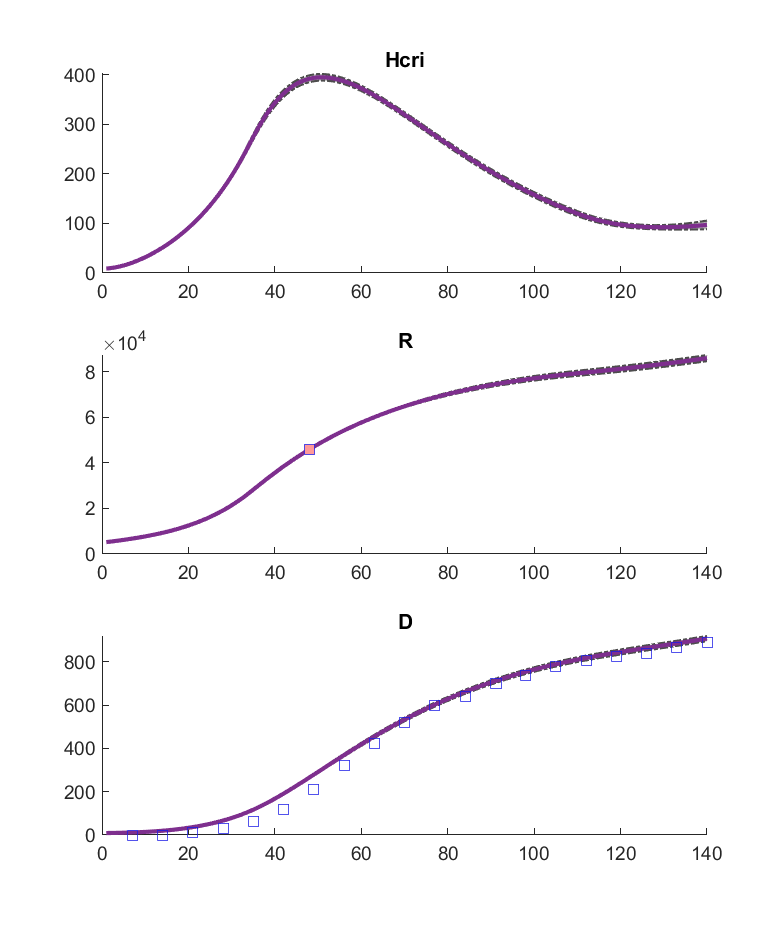
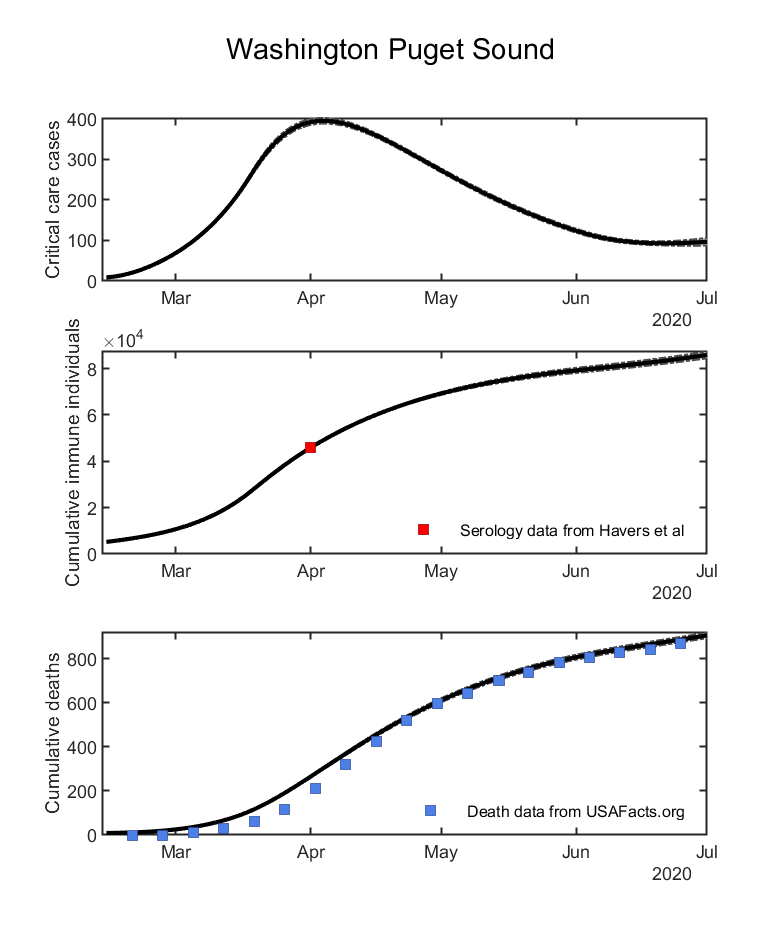
new figures

diff --git a/CYZ_reorg/Matlab/plot_MCMC_res_temp_simplified.m b/CYZ_reorg/Matlab/plot_MCMC_res_temp_simplified.m
@@ -1,20 +1,27 @@
-function out = plot_MCMC_res_temp_simplified(NSamples, Chains, Comps, Pars, Ress)
+function out = plot_MCMC_res_temp_simplified(NSamples, Chains, Comps, Pars, Ress, REGION)
 %% Predictions from MCMC
+
+if REGION == 'nyc'
+    region_name = 'New York City';
+elseif REGION == 'sflor'
+    region_name = 'South Florida';
+elseif REGION == 'wash'
+    region_name = 'Washington Puget Sound';
+end
 
 % For all Chains
 out = figure('Name', 'Res', 'Position', [5 5 500 600]); clf    
-COUNTER = 1;
 k = 2;
 Chain = Chains{k};
 Res = Ress{k};
 
-% Take second half of chain
+% Take second half of chain XXX thisis sus,
 burnIn = floor(length(Chain)/2);
 burnOut = burnIn:length(Chain);
 
 chain_out = Chain(burnOut,:);
-i_samp = randi([1, length(burnOut)], 1,NSamples);
 
+i_samp = randi([1, length(burnOut)], 1,NSamples);
 chain_samp = chain_out(i_samp,:);
 
 % Plot by component.
@@ -23,6 +30,8 @@ for j = 1:length(Comps)
     
     % Subplot based on the # of components
     subplot(length(Comps), 1, j)
+    suptitle(region_name);
+    set(gca,'linewidth',1)
     hold on
 
     % Plot the mean chain
@@ -35,6 +44,7 @@ for j = 1:length(Comps)
     
     % x values
     ts = 1:size(sampled_fits,2); % I can only do this b/c I set days as the unit
+    ts = ts+Pars.t0;
     
     % y values
     mean_sampled_fits = mean(sampled_fits);
@@ -46,24 +56,54 @@ for j = 1:length(Comps)
     % plots
     fill([ts, fliplr(ts)], ...
         [ci_higher_sampled_fits, fliplr(ci_lower_sampled_fits)], ...
-        [0.7, 0.7, 0.7],'LineStyle','none')
+        [0.7, 0.7, 0.7],'LineStyle','none','HandleVisibility','off')
     
-    plot(ts, ci_higher_sampled_fits, '-.', 'LineWidth', 1, 'Color', [0.3, 0.3, 0.3]);
-    plot(ts, ci_lower_sampled_fits, '-.', 'LineWidth', 1, 'Color', [0.3, 0.3, 0.3]);
-    plot(ts, mean_sampled_fits, 'LineWidth', 2);
+    plot(ts, ci_higher_sampled_fits, '-.', 'LineWidth', 1, 'Color', [0.3, 0.3, 0.3], ...
+        'HandleVisibility','off');
+    plot(ts, ci_lower_sampled_fits, '-.', 'LineWidth', 1, 'Color', [0.3, 0.3, 0.3], ...
+        'HandleVisibility','off');
+    plot(ts, mean_sampled_fits, 'LineWidth', 2, 'Color', [0 0 0], ...
+        'HandleVisibility','off');
     
- 
     % For certain components, add additional information to the plot.
     if j_comp == "S"            % If we're plotting S, include sero
-        plot(Pars.tSero, (1-Pars.sero/100)*Pars.N, 's', 'Color', [0.1, 0.1, 0.9], ...
-            'MarkerFaceColor',[1 .6 .6])
+        plot(Pars.tSero+Pars.t0, (1-Pars.sero/100)*Pars.N, 's', 'Color', [1 0 0], ...
+            'MarkerFaceColor',[1 0 0], 'DisplayName', 'S')
+        ylabel('Cumulative susceptible')
+        
+    elseif j_comp == "E"        % Exposed
+        ylabel('Exposed individuals')
+        
+    elseif j_comp == "Iasym"    % Asymptomatics
+        ylabel('Asymptomatic infectees')
+        
+    elseif j_comp == "Isym"     % Symptomatics
+        ylabel('Symptomatic individuals')
+        
+    elseif j_comp == "Hsub"     % Subcritical Hospitalizations
+        ylabel('Subcritical Hospitalizations')
+        
+    elseif j_comp == "Hcri"     % Critical Care Cases
+        ylabel('Critical care cases')
+        
     elseif j_comp == "R"        % If we're plotting R, include sero
-        plot(Pars.tSero, Pars.sero/100*Pars.N, 's', 'Color', [0.1, 0.1, 0.9], ...
-            'MarkerFaceColor',[1 .6 .6])
-    elseif j_comp == "D"        % If deaths, include data
-        plot(7*(1:Pars.nWeeks), cumsum(Pars.target), 's', 'Color', [0.1, 0.1, 0.9])
-    end
+        plot(Pars.tSero+Pars.t0, Pars.sero/100*Pars.N, 's', 'Color', [.6 0 0], ...
+            'MarkerFaceColor',[1 0 0], 'DisplayName', 'Serology data from Havers et al')
+        ylabel('Cumulative immune individuals')
+        legend({'Serology data from Havers et al'},'Location','southeast')
+        legend boxoff
 
+    elseif j_comp == "D"        % If deaths, include data
+        plot(7*(1:Pars.nWeeks)+Pars.t0, cumsum(Pars.target), 's', 'Color', [0.2, 0.3, 0.6], ...
+            'MarkerFaceColor', [0.3, 0.5, 0.9], 'DisplayName', 'Death data from USAFacts.org')
+        ylabel('Cumulative deaths')
+        legend({'Death data from USAFacts.org'},'Location','southeast')
+        legend boxoff
+        
+    end
     ylim([0, Inf])
-    title(j_comp)
+    xlim([Pars.t0, Pars.tf])
+   
+    box on
 end
+

diff --git a/CYZ_reorg/Matlab/Generate_Figures.m b/CYZ_reorg/Matlab/Generate_Figures.m
@@ -26,7 +26,7 @@ for PARAMETER_SET = ["LANCET"] %PNAS
                 % Forward simulate to February 01 2021
                     %temp_tf = datetime(2021,04,01);
                     %pars_in.times = 1:365; %days(temp_tf - pars_in.t0);
-                t5 = plot_MCMC_res_temp_simplified(100, Chains, ["Hcri", "R", "D"], pars_in, Ress);
+                t5 = plot_MCMC_res_temp_simplified(100, Chains, ["Hcri", "R", "D"], pars_in, Ress, REGION);
                     %t5 = plot_MCMC_res_temp(100, Chains, ["S", "E", "Isym", "Iasym", "R", "D"], pars_in, Ress);
                 saveas(t5, strcat('OUTPUT/', REGION, '/', DATE, '_', REGION, '_',  PARAMETER_SET, '_', LIKELIHOOD_TYPE, '_fits.png'));
             end

diff --git a/CYZ_reorg/Matlab/input_wash.m b/CYZ_reorg/Matlab/input_wash.m
@@ -2,6 +2,7 @@ input_defaults
 
 %% Set to default
 pars_wash = pars_default;
+pars_wash.loc = "Washington Puget Sound";
 
 %% Read WASH Data
 wash_data = csvread('wash.csv',1,2); % don't read text columns

diff --git a/CYZ_reorg/Matlab/input_sflor.m b/CYZ_reorg/Matlab/input_sflor.m
@@ -2,6 +2,7 @@ input_defaults
 
 %% Set to default
 pars_sflor = pars_default;
+pars_sflor.loc = "South Florida";
 
 %% Read SFLOR Data
 sflor_data = csvread('sflor.csv',1,2); % don't read text columns

diff --git a/CYZ_reorg/Matlab/input_nyc.m b/CYZ_reorg/Matlab/input_nyc.m
@@ -2,6 +2,7 @@ input_defaults
 
 %% Set to default
 pars_nyc = pars_default;
+pars_nyc.loc = "New York City";
 
 %% Read NY Data
 ny_data = csvread('nyc.csv',1,2); % don't read text columns
